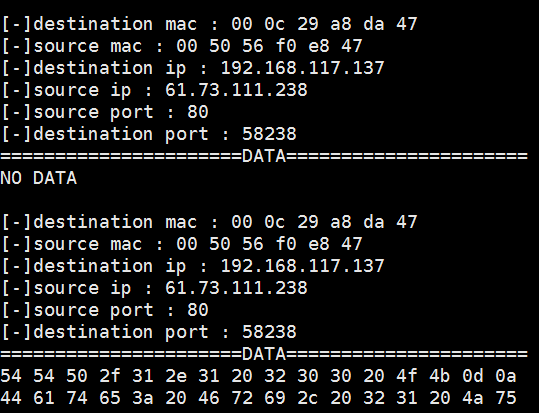
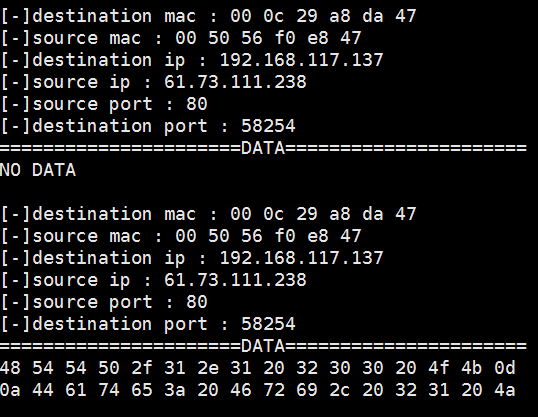
Fix Error

Changed region(s): [[0.0, 0.4939, 0.9814, 0.9879], [0.0, 0.0, 0.9814, 0.4649]]

diff --git a/parse.c b/parse.c
@@ -122,7 +122,7 @@ int main(int argc, char* argv[]) {
                 continue;
             }
             for(int i=1;i<=32;i++){
-                printf("%02x ",data[i]);
+                printf("%02x ",data[i-1]);
                 if(i%16==0)
                     printf("\n");
             }
